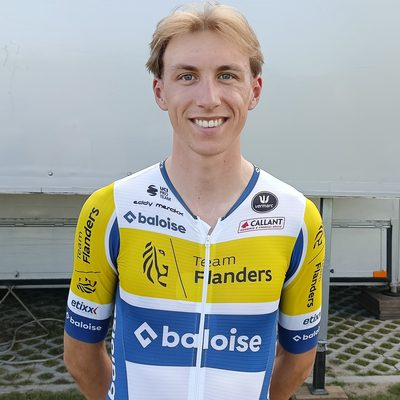
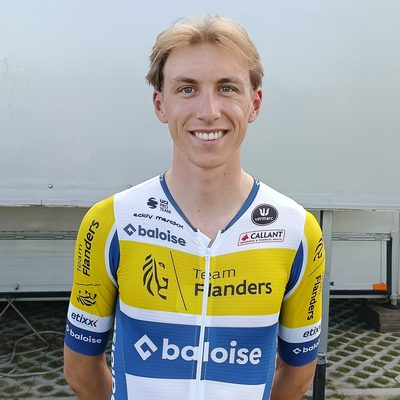
Fix Belgian photo orientation and drop unusable portraits

diff --git a/vuelta.html b/vuelta.html
@@ -1,6 +1,6 @@
 <!DOCTYPE html>
 <html lang="en">
-<head><!-- build:20260821-210950Z -->
+<head><!-- build:20260821-213004Z -->
 <meta charset="UTF-8">
 <meta http-equiv="Cache-Control" content="no-cache, no-store, must-revalidate">
 <meta http-equiv="Pragma" content="no-cache">
@@ -1822,7 +1822,7 @@ const BELGIAN_RIDERS=[
  /* src: https://en.wikipedia.org/wiki/Jordi_Meeus */
  {r:"J. Meeus",t:"Red Bull-BORA-hansgrohe",photo:"belgian-meeus.jpg",bio:"A sprinter whose biggest win came on the Champs-Elysees, taking the final stage of the 2023 Tour de France ahead of Jasper Philipsen. Also won Paris-Bourges in 2021 and the Primus Classic in 2022."},
  {r:"G. Vermeersch",t:"Red Bull-BORA-hansgrohe",photo:"belgian-vermeersch.jpg",bio:"A powerful all-rounder and inaugural gravel world champion, at home on cobbles, crosswinds and rough terrain."},
- {r:"C. Uijtdebroeks",t:"Movistar Team",photo:"belgian-uijtdebroeks.jpg",bio:"Young Belgian GC talent who took the best young rider jersey and a top-ten overall at the Vuelta as a neo-pro, climbing with the leaders in the high mountains."},
+ {r:"C. Uijtdebroeks",t:"Movistar Team",bio:"Young Belgian GC talent who took the best young rider jersey and a top-ten overall at the Vuelta as a neo-pro, climbing with the leaders in the high mountains."},
  {r:"W. van Aert",t:"Visma-Lease a Bike",photo:"belgian-vanaert.jpg",bio:"One of the great all-rounders of his generation: multiple Tour de France stage wins across sprints, mountains and time trials, a former cyclocross world champion, and a Milan-San Remo and Gent-Wevelgem winner. The engine every Belgian fan watches."},
  /* src: https://www.procyclingstats.com/rider/sander-de-pestel */
  {r:"S. de Pestel",t:"Decathlon CMA CGM Team",photo:"belgian-depestel.jpg",bio:"An all-rounder from Sint-Niklaas, with a stage podium at the 2025 Route d'Occitanie and a top ten overall at the 2025 Tour de la Provence."},
@@ -1847,9 +1847,9 @@ const BELGIAN_RIDERS=[
  /* src: https://www.procyclingstats.com/rider/lars-craps */
  {r:"L. Craps",t:"Lotto-Intermarché",photo:"belgian-craps.jpg",bio:"A stage-race rider from Aalst, fifth on a stage of the 2024 Tour of Norway and fourteenth overall at the 2026 Tour Auvergne-Rhone-Alpes."},
  /* src: https://www.procyclingstats.com/rider/steffen-de-schuyteneer */
- {r:"S. de Schuyteneer",t:"Lotto-Intermarché",photo:"belgian-deschuyteneer.jpg",bio:"A sprinter from Geraardsbergen, born 2005, with stage wins at the Tour of Taihu Lake and the Tour of Istanbul, and second at the 2026 Grand Prix la Marseillaise."},
+ {r:"S. de Schuyteneer",t:"Lotto-Intermarché",bio:"A sprinter from Geraardsbergen, born 2005, with stage wins at the Tour of Taihu Lake and the Tour of Istanbul, and second at the 2026 Grand Prix la Marseillaise."},
  /* src: https://www.procyclingstats.com/rider/luca-van-boven */
- {r:"L. van Boven",t:"Lotto-Intermarché",photo:"belgian-vanboven.jpg",bio:"From Zottegem, second on a stage of the 2025 Itzulia Basque Country and fourth overall at the 2024 Four Days of Dunkirk."}
+ {r:"L. van Boven",t:"Lotto-Intermarché",bio:"From Zottegem, second on a stage of the 2025 Itzulia Basque Country and fourth overall at the 2024 Four Days of Dunkirk."}
 ];
 const SHARED_UPCOMING = {
   21: { route:"Thoiry > Paris (Champs-Elysees)", type:"Hilly finale / Montmartre", km:133,
@@ -2149,7 +2149,7 @@ function renderMerica(){
    mp3 is missing the control hides itself rather than erroring. */
 var KAS_SRC='/kasseistampers.mp3', KAS_AUDIO=null, KAS_DEAD=false;
 var KAS_LYRICS="<span class=\"kas-dir\">[Intro - crowd shout]</span>\nOp de kasseien! STAMP! STAMP! STAMP!\nWie pakt de trui? KO-NING... KAS-SEI-STAM-PERS!\n\n<span class=\"kas-dir\">[Verse 1]</span>\nWe can't ride the Ronde,\nWe can't climb a col,\nWe couldn't stamp a single kassei,\nBut we back the fastest Belgian of all!\n\n<span class=\"kas-dir\">[Chorus - big crowd]</span>\nOh, when the stampers come stomping in,\nOh when the Kasseistampers stomp in,\nGodverdomme, crack the pintjes,\nWhen the Kasseistampers stomp in!\n\n<span class=\"kas-dir\">[Verse 2]</span>\nLike the watch of old Aarschot,\nWe're clocking off the graft,\nWe stamp our clogs to sound like we're working,\nThen it's off to de kroeg for a draught!\n\n<span class=\"kas-dir\">[Chorus - big crowd]</span>\nOh, when the stampers come stomping in,\nOh when the Kasseistampers stomp in,\nGodverdomme, crack the pintjes,\nWhen the Kasseistampers stomp in!\n\n<span class=\"kas-dir\">[Bridge - stomp and clap]</span>\nFrietjes! Mayonaise!\nKasseien! Pintjes!\nKoning der Kasseistampers... ALLEZ!\n\n<span class=\"kas-dir\">[Verse 3]</span>\nThe kasseien rattle your kloten,\nThey'll shake your fillings free,\nBut the Koning don't flinch, he waves for another,\nNog een pintje, en eentje for me!\n\n<span class=\"kas-dir\">[Outro - full crowd, arms up]</span>\nAllez, allez, KAS-SEI-STAM-PERS,\nCobbles, beer, and glorie,\nAllez, allez, KAS-SEI-STAM-PERS...\nSANTE!";
-var KAS_CREDITS="<div class=\"kas-cr\"><b>J. Meeus</b> Nicola, CC BY-SA 4.0. <a href=\"https://commons.wikimedia.org/wiki/File:Rund_um_K\u00f6ln_2023_102.jpg\" target=\"_blank\" rel=\"noopener\">Wikimedia Commons</a></div><div class=\"kas-cr\"><b>G. Vermeersch</b> J\u00e9r\u00e9my-G\u00fcnther-Heinz J\u00e4hnick, CC BY-SA 3.0. <a href=\"https://commons.wikimedia.org/wiki/File:Grotenberge_(Zottegem)_-_Omloop_Het_Nieuwsblad_Beloften,_4_juli_2015_(E15).JPG\" target=\"_blank\" rel=\"noopener\">Wikimedia Commons</a></div><div class=\"kas-cr\"><b>C. Uijtdebroeks</b> Foveon producciones, CC BY-SA 4.0. <a href=\"https://commons.wikimedia.org/wiki/File:Vuelta_a_Espa\u00f1a_2023_Contrarreloj_Valladolid-15.jpg\" target=\"_blank\" rel=\"noopener\">Wikimedia Commons</a></div><div class=\"kas-cr\"><b>W. van Aert</b> Cl\u00e9mence LN, CC BY-SA 4.0. <a href=\"https://commons.wikimedia.org/wiki/File:WVA_Paris-Roubaix_2022.jpg\" target=\"_blank\" rel=\"noopener\">Wikimedia Commons</a></div><div class=\"kas-cr\"><b>S. de Pestel</b> Renhour48, CC0. <a href=\"https://commons.wikimedia.org/wiki/File:Les_4_jours_de_Dunkerque_2025_-_Sander_De_Pestel.jpg\" target=\"_blank\" rel=\"noopener\">Wikimedia Commons</a></div><div class=\"kas-cr\"><b>T. Nys</b> Cs-wolves, CC BY-SA 4.0. <a href=\"https://commons.wikimedia.org/wiki/File:Thibau_Nys_-_2023_UCI_Road_World_Championships_(Men's_under-23_road_race).jpg\" target=\"_blank\" rel=\"noopener\">Wikimedia Commons</a></div><div class=\"kas-cr\"><b>L. de Vylder</b> Nicola, CC BY-SA 4.0. <a href=\"https://commons.wikimedia.org/wiki/File:2024_UEC_Track_Elite_European_Championships_178.jpg\" target=\"_blank\" rel=\"noopener\">Wikimedia Commons</a></div><div class=\"kas-cr\"><b>R. Debruyne</b> Robin Krahl, CC BY-SA 4.0. <a href=\"https://commons.wikimedia.org/wiki/File:2022-07-27_0511_Ramses_Debruyne_(Tour_Alsace).jpg\" target=\"_blank\" rel=\"noopener\">Wikimedia Commons</a></div><div class=\"kas-cr\"><b>S. Sentjens</b> Cs-wolves, CC BY-SA 4.0. <a href=\"https://commons.wikimedia.org/wiki/File:Belgium_-_2023_UCI_Road_World_Championships_(Men's_junior_road_race).jpg\" target=\"_blank\" rel=\"noopener\">Wikimedia Commons</a></div><div class=\"kas-cr\"><b>F. van den Bossche</b> Nicola, CC BY-SA 4.0. <a href=\"https://commons.wikimedia.org/wiki/File:2024_UEC_Track_Elite_European_Championships_177.jpg\" target=\"_blank\" rel=\"noopener\">Wikimedia Commons</a></div><div class=\"kas-cr\"><b>M. Vansevenant</b> filip bossuyt from Kortrijk, Belgium, CC BY 2.0. <a href=\"https://commons.wikimedia.org/wiki/File:GI220026_vansevenant_(52123252048).jpg\" target=\"_blank\" rel=\"noopener\">Wikimedia Commons</a></div><div class=\"kas-cr\"><b>S. Moniquet</b> Beno\u00eet Prieur, CC0. <a href=\"https://commons.wikimedia.org/wiki/File:Sylvain_Moniquet_(Lotto_Soudal)_au_matin_de_la_premi\u00e8re_\u00e9tape_du_Tour_de_l'Ain_2021.jpg\" target=\"_blank\" rel=\"noopener\">Wikimedia Commons</a></div><div class=\"kas-cr\"><b>J. Widar</b> MFonzatti, CC BY-SA 4.0. <a href=\"https://commons.wikimedia.org/wiki/File:TDA2024_Jarno_Widar.jpg\" target=\"_blank\" rel=\"noopener\">Wikimedia Commons</a></div><div class=\"kas-cr\"><b>V. Braet</b> J\u00e9r\u00e9my-G\u00fcnther-Heinz J\u00e4hnick, CC BY-SA 3.0. <a href=\"https://commons.wikimedia.org/wiki/File:Saint-Amand-les-Eaux_-_Paris-Roubaix_juniors,_9_avril_2017,_d\u00e9part_(A85).JPG\" target=\"_blank\" rel=\"noopener\">Wikimedia Commons</a></div><div class=\"kas-cr\"><b>L. Craps</b> KvaraWolves88, CC0. <a href=\"https://commons.wikimedia.org/wiki/File:Lars_Craps_at_Renewi_Tour_2024.jpg\" target=\"_blank\" rel=\"noopener\">Wikimedia Commons</a></div><div class=\"kas-cr\"><b>S. de Schuyteneer</b> Cs-wolves, CC BY-SA 4.0. <a href=\"https://commons.wikimedia.org/wiki/File:Steffen_De_Schuyteneer_-_2023_UCI_Road_World_Championships_(Men's_junior_road_race,_lap_4).jpg\" target=\"_blank\" rel=\"noopener\">Wikimedia Commons</a></div><div class=\"kas-cr\"><b>L. van Boven</b> Hoebele, CC BY-SA 4.0. <a href=\"https://commons.wikimedia.org/wiki/File:2024_Tour_de_Wallonie_-_4e_etappe_127_Luca_van_Boven.jpg\" target=\"_blank\" rel=\"noopener\">Wikimedia Commons</a></div>";
+var KAS_CREDITS="<div class=\"kas-cr\"><b>J. Meeus</b> Nicola, CC BY-SA 4.0. <a href=\"https://commons.wikimedia.org/wiki/File:Rund_um_K\u00f6ln_2023_102.jpg\" target=\"_blank\" rel=\"noopener\">Wikimedia Commons</a></div><div class=\"kas-cr\"><b>G. Vermeersch</b> J\u00e9r\u00e9my-G\u00fcnther-Heinz J\u00e4hnick, CC BY-SA 3.0. <a href=\"https://commons.wikimedia.org/wiki/File:Grotenberge_(Zottegem)_-_Omloop_Het_Nieuwsblad_Beloften,_4_juli_2015_(E15).JPG\" target=\"_blank\" rel=\"noopener\">Wikimedia Commons</a></div><div class=\"kas-cr\"><b>W. van Aert</b> Cl\u00e9mence LN, CC BY-SA 4.0. <a href=\"https://commons.wikimedia.org/wiki/File:WVA_Paris-Roubaix_2022.jpg\" target=\"_blank\" rel=\"noopener\">Wikimedia Commons</a></div><div class=\"kas-cr\"><b>S. de Pestel</b> Renhour48, CC0. <a href=\"https://commons.wikimedia.org/wiki/File:Les_4_jours_de_Dunkerque_2025_-_Sander_De_Pestel.jpg\" target=\"_blank\" rel=\"noopener\">Wikimedia Commons</a></div><div class=\"kas-cr\"><b>T. Nys</b> Cs-wolves, CC BY-SA 4.0. <a href=\"https://commons.wikimedia.org/wiki/File:Thibau_Nys_-_2023_UCI_Road_World_Championships_(Men's_under-23_road_race).jpg\" target=\"_blank\" rel=\"noopener\">Wikimedia Commons</a></div><div class=\"kas-cr\"><b>L. de Vylder</b> Nicola, CC BY-SA 4.0. <a href=\"https://commons.wikimedia.org/wiki/File:2024_UEC_Track_Elite_European_Championships_178.jpg\" target=\"_blank\" rel=\"noopener\">Wikimedia Commons</a></div><div class=\"kas-cr\"><b>R. Debruyne</b> Robin Krahl, CC BY-SA 4.0. <a href=\"https://commons.wikimedia.org/wiki/File:2022-07-27_0511_Ramses_Debruyne_(Tour_Alsace).jpg\" target=\"_blank\" rel=\"noopener\">Wikimedia Commons</a></div><div class=\"kas-cr\"><b>S. Sentjens</b> Cs-wolves, CC BY-SA 4.0. <a href=\"https://commons.wikimedia.org/wiki/File:Sente_Sentjens_aux_championnats_du_monde_2023_(cropped).jpg\" target=\"_blank\" rel=\"noopener\">Wikimedia Commons</a></div><div class=\"kas-cr\"><b>F. van den Bossche</b> Nicola, CC BY-SA 4.0. <a href=\"https://commons.wikimedia.org/wiki/File:2024_UEC_Track_Elite_European_Championships_177.jpg\" target=\"_blank\" rel=\"noopener\">Wikimedia Commons</a></div><div class=\"kas-cr\"><b>M. Vansevenant</b> filip bossuyt from Kortrijk, Belgium, CC BY 2.0. <a href=\"https://commons.wikimedia.org/wiki/File:GI220026_vansevenant_(52123252048).jpg\" target=\"_blank\" rel=\"noopener\">Wikimedia Commons</a></div><div class=\"kas-cr\"><b>S. Moniquet</b> Beno\u00eet Prieur, CC0. <a href=\"https://commons.wikimedia.org/wiki/File:Sylvain_Moniquet_(Lotto_Soudal)_au_matin_de_la_premi\u00e8re_\u00e9tape_du_Tour_de_l'Ain_2021.jpg\" target=\"_blank\" rel=\"noopener\">Wikimedia Commons</a></div><div class=\"kas-cr\"><b>J. Widar</b> MFonzatti, CC BY-SA 4.0. <a href=\"https://commons.wikimedia.org/wiki/File:TDA2024_Jarno_Widar.jpg\" target=\"_blank\" rel=\"noopener\">Wikimedia Commons</a></div><div class=\"kas-cr\"><b>V. Braet</b> J\u00e9r\u00e9my-G\u00fcnther-Heinz J\u00e4hnick, CC BY-SA 3.0. <a href=\"https://commons.wikimedia.org/wiki/File:Saint-Amand-les-Eaux_-_Paris-Roubaix_juniors,_9_avril_2017,_d\u00e9part_(A85).JPG\" target=\"_blank\" rel=\"noopener\">Wikimedia Commons</a></div><div class=\"kas-cr\"><b>L. Craps</b> KvaraWolves88, CC0. <a href=\"https://commons.wikimedia.org/wiki/File:Lars_Craps_at_Renewi_Tour_2024.jpg\" target=\"_blank\" rel=\"noopener\">Wikimedia Commons</a></div>";
 function kasHide(){ KAS_DEAD=true; document.querySelectorAll('.kas-play').forEach(function(b){ b.style.display='none'; }); }
 function kasSync(){
   var on = !!(KAS_AUDIO && !KAS_AUDIO.paused);
@@ -4647,4 +4647,4 @@ document.querySelectorAll('nav.tabs button').forEach(b=>{
 </script>
 </body>
 </html>
-<!-- redeploy: kasseistampers summary color, 2026-08-21T21:09Z -->
+<!-- redeploy: belgian photo orientation, 2026-08-21T21:30Z -->

diff --git a/vuelta.src.html b/vuelta.src.html
@@ -1822,7 +1822,7 @@ const BELGIAN_RIDERS=[
  /* src: https://en.wikipedia.org/wiki/Jordi_Meeus */
  {r:"J. Meeus",t:"Red Bull-BORA-hansgrohe",photo:"belgian-meeus.jpg",bio:"A sprinter whose biggest win came on the Champs-Elysees, taking the final stage of the 2023 Tour de France ahead of Jasper Philipsen. Also won Paris-Bourges in 2021 and the Primus Classic in 2022."},
  {r:"G. Vermeersch",t:"Red Bull-BORA-hansgrohe",photo:"belgian-vermeersch.jpg",bio:"A powerful all-rounder and inaugural gravel world champion, at home on cobbles, crosswinds and rough terrain."},
- {r:"C. Uijtdebroeks",t:"Movistar Team",photo:"belgian-uijtdebroeks.jpg",bio:"Young Belgian GC talent who took the best young rider jersey and a top-ten overall at the Vuelta as a neo-pro, climbing with the leaders in the high mountains."},
+ {r:"C. Uijtdebroeks",t:"Movistar Team",bio:"Young Belgian GC talent who took the best young rider jersey and a top-ten overall at the Vuelta as a neo-pro, climbing with the leaders in the high mountains."},
  {r:"W. van Aert",t:"Visma-Lease a Bike",photo:"belgian-vanaert.jpg",bio:"One of the great all-rounders of his generation: multiple Tour de France stage wins across sprints, mountains and time trials, a former cyclocross world champion, and a Milan-San Remo and Gent-Wevelgem winner. The engine every Belgian fan watches."},
  /* src: https://www.procyclingstats.com/rider/sander-de-pestel */
  {r:"S. de Pestel",t:"Decathlon CMA CGM Team",photo:"belgian-depestel.jpg",bio:"An all-rounder from Sint-Niklaas, with a stage podium at the 2025 Route d'Occitanie and a top ten overall at the 2025 Tour de la Provence."},
@@ -1847,9 +1847,9 @@ const BELGIAN_RIDERS=[
  /* src: https://www.procyclingstats.com/rider/lars-craps */
  {r:"L. Craps",t:"Lotto-Intermarché",photo:"belgian-craps.jpg",bio:"A stage-race rider from Aalst, fifth on a stage of the 2024 Tour of Norway and fourteenth overall at the 2026 Tour Auvergne-Rhone-Alpes."},
  /* src: https://www.procyclingstats.com/rider/steffen-de-schuyteneer */
- {r:"S. de Schuyteneer",t:"Lotto-Intermarché",photo:"belgian-deschuyteneer.jpg",bio:"A sprinter from Geraardsbergen, born 2005, with stage wins at the Tour of Taihu Lake and the Tour of Istanbul, and second at the 2026 Grand Prix la Marseillaise."},
+ {r:"S. de Schuyteneer",t:"Lotto-Intermarché",bio:"A sprinter from Geraardsbergen, born 2005, with stage wins at the Tour of Taihu Lake and the Tour of Istanbul, and second at the 2026 Grand Prix la Marseillaise."},
  /* src: https://www.procyclingstats.com/rider/luca-van-boven */
- {r:"L. van Boven",t:"Lotto-Intermarché",photo:"belgian-vanboven.jpg",bio:"From Zottegem, second on a stage of the 2025 Itzulia Basque Country and fourth overall at the 2024 Four Days of Dunkirk."}
+ {r:"L. van Boven",t:"Lotto-Intermarché",bio:"From Zottegem, second on a stage of the 2025 Itzulia Basque Country and fourth overall at the 2024 Four Days of Dunkirk."}
 ];
 const SHARED_UPCOMING = {
   21: { route:"Thoiry > Paris (Champs-Elysees)", type:"Hilly finale / Montmartre", km:133,
@@ -2149,7 +2149,7 @@ function renderMerica(){
    mp3 is missing the control hides itself rather than erroring. */
 var KAS_SRC='/kasseistampers.mp3', KAS_AUDIO=null, KAS_DEAD=false;
 var KAS_LYRICS="<span class=\"kas-dir\">[Intro - crowd shout]</span>\nOp de kasseien! STAMP! STAMP! STAMP!\nWie pakt de trui? KO-NING... KAS-SEI-STAM-PERS!\n\n<span class=\"kas-dir\">[Verse 1]</span>\nWe can't ride the Ronde,\nWe can't climb a col,\nWe couldn't stamp a single kassei,\nBut we back the fastest Belgian of all!\n\n<span class=\"kas-dir\">[Chorus - big crowd]</span>\nOh, when the stampers come stomping in,\nOh when the Kasseistampers stomp in,\nGodverdomme, crack the pintjes,\nWhen the Kasseistampers stomp in!\n\n<span class=\"kas-dir\">[Verse 2]</span>\nLike the watch of old Aarschot,\nWe're clocking off the graft,\nWe stamp our clogs to sound like we're working,\nThen it's off to de kroeg for a draught!\n\n<span class=\"kas-dir\">[Chorus - big crowd]</span>\nOh, when the stampers come stomping in,\nOh when the Kasseistampers stomp in,\nGodverdomme, crack the pintjes,\nWhen the Kasseistampers stomp in!\n\n<span class=\"kas-dir\">[Bridge - stomp and clap]</span>\nFrietjes! Mayonaise!\nKasseien! Pintjes!\nKoning der Kasseistampers... ALLEZ!\n\n<span class=\"kas-dir\">[Verse 3]</span>\nThe kasseien rattle your kloten,\nThey'll shake your fillings free,\nBut the Koning don't flinch, he waves for another,\nNog een pintje, en eentje for me!\n\n<span class=\"kas-dir\">[Outro - full crowd, arms up]</span>\nAllez, allez, KAS-SEI-STAM-PERS,\nCobbles, beer, and glorie,\nAllez, allez, KAS-SEI-STAM-PERS...\nSANTE!";
-var KAS_CREDITS="<div class=\"kas-cr\"><b>J. Meeus</b> Nicola, CC BY-SA 4.0. <a href=\"https://commons.wikimedia.org/wiki/File:Rund_um_K\u00f6ln_2023_102.jpg\" target=\"_blank\" rel=\"noopener\">Wikimedia Commons</a></div><div class=\"kas-cr\"><b>G. Vermeersch</b> J\u00e9r\u00e9my-G\u00fcnther-Heinz J\u00e4hnick, CC BY-SA 3.0. <a href=\"https://commons.wikimedia.org/wiki/File:Grotenberge_(Zottegem)_-_Omloop_Het_Nieuwsblad_Beloften,_4_juli_2015_(E15).JPG\" target=\"_blank\" rel=\"noopener\">Wikimedia Commons</a></div><div class=\"kas-cr\"><b>C. Uijtdebroeks</b> Foveon producciones, CC BY-SA 4.0. <a href=\"https://commons.wikimedia.org/wiki/File:Vuelta_a_Espa\u00f1a_2023_Contrarreloj_Valladolid-15.jpg\" target=\"_blank\" rel=\"noopener\">Wikimedia Commons</a></div><div class=\"kas-cr\"><b>W. van Aert</b> Cl\u00e9mence LN, CC BY-SA 4.0. <a href=\"https://commons.wikimedia.org/wiki/File:WVA_Paris-Roubaix_2022.jpg\" target=\"_blank\" rel=\"noopener\">Wikimedia Commons</a></div><div class=\"kas-cr\"><b>S. de Pestel</b> Renhour48, CC0. <a href=\"https://commons.wikimedia.org/wiki/File:Les_4_jours_de_Dunkerque_2025_-_Sander_De_Pestel.jpg\" target=\"_blank\" rel=\"noopener\">Wikimedia Commons</a></div><div class=\"kas-cr\"><b>T. Nys</b> Cs-wolves, CC BY-SA 4.0. <a href=\"https://commons.wikimedia.org/wiki/File:Thibau_Nys_-_2023_UCI_Road_World_Championships_(Men's_under-23_road_race).jpg\" target=\"_blank\" rel=\"noopener\">Wikimedia Commons</a></div><div class=\"kas-cr\"><b>L. de Vylder</b> Nicola, CC BY-SA 4.0. <a href=\"https://commons.wikimedia.org/wiki/File:2024_UEC_Track_Elite_European_Championships_178.jpg\" target=\"_blank\" rel=\"noopener\">Wikimedia Commons</a></div><div class=\"kas-cr\"><b>R. Debruyne</b> Robin Krahl, CC BY-SA 4.0. <a href=\"https://commons.wikimedia.org/wiki/File:2022-07-27_0511_Ramses_Debruyne_(Tour_Alsace).jpg\" target=\"_blank\" rel=\"noopener\">Wikimedia Commons</a></div><div class=\"kas-cr\"><b>S. Sentjens</b> Cs-wolves, CC BY-SA 4.0. <a href=\"https://commons.wikimedia.org/wiki/File:Belgium_-_2023_UCI_Road_World_Championships_(Men's_junior_road_race).jpg\" target=\"_blank\" rel=\"noopener\">Wikimedia Commons</a></div><div class=\"kas-cr\"><b>F. van den Bossche</b> Nicola, CC BY-SA 4.0. <a href=\"https://commons.wikimedia.org/wiki/File:2024_UEC_Track_Elite_European_Championships_177.jpg\" target=\"_blank\" rel=\"noopener\">Wikimedia Commons</a></div><div class=\"kas-cr\"><b>M. Vansevenant</b> filip bossuyt from Kortrijk, Belgium, CC BY 2.0. <a href=\"https://commons.wikimedia.org/wiki/File:GI220026_vansevenant_(52123252048).jpg\" target=\"_blank\" rel=\"noopener\">Wikimedia Commons</a></div><div class=\"kas-cr\"><b>S. Moniquet</b> Beno\u00eet Prieur, CC0. <a href=\"https://commons.wikimedia.org/wiki/File:Sylvain_Moniquet_(Lotto_Soudal)_au_matin_de_la_premi\u00e8re_\u00e9tape_du_Tour_de_l'Ain_2021.jpg\" target=\"_blank\" rel=\"noopener\">Wikimedia Commons</a></div><div class=\"kas-cr\"><b>J. Widar</b> MFonzatti, CC BY-SA 4.0. <a href=\"https://commons.wikimedia.org/wiki/File:TDA2024_Jarno_Widar.jpg\" target=\"_blank\" rel=\"noopener\">Wikimedia Commons</a></div><div class=\"kas-cr\"><b>V. Braet</b> J\u00e9r\u00e9my-G\u00fcnther-Heinz J\u00e4hnick, CC BY-SA 3.0. <a href=\"https://commons.wikimedia.org/wiki/File:Saint-Amand-les-Eaux_-_Paris-Roubaix_juniors,_9_avril_2017,_d\u00e9part_(A85).JPG\" target=\"_blank\" rel=\"noopener\">Wikimedia Commons</a></div><div class=\"kas-cr\"><b>L. Craps</b> KvaraWolves88, CC0. <a href=\"https://commons.wikimedia.org/wiki/File:Lars_Craps_at_Renewi_Tour_2024.jpg\" target=\"_blank\" rel=\"noopener\">Wikimedia Commons</a></div><div class=\"kas-cr\"><b>S. de Schuyteneer</b> Cs-wolves, CC BY-SA 4.0. <a href=\"https://commons.wikimedia.org/wiki/File:Steffen_De_Schuyteneer_-_2023_UCI_Road_World_Championships_(Men's_junior_road_race,_lap_4).jpg\" target=\"_blank\" rel=\"noopener\">Wikimedia Commons</a></div><div class=\"kas-cr\"><b>L. van Boven</b> Hoebele, CC BY-SA 4.0. <a href=\"https://commons.wikimedia.org/wiki/File:2024_Tour_de_Wallonie_-_4e_etappe_127_Luca_van_Boven.jpg\" target=\"_blank\" rel=\"noopener\">Wikimedia Commons</a></div>";
+var KAS_CREDITS="<div class=\"kas-cr\"><b>J. Meeus</b> Nicola, CC BY-SA 4.0. <a href=\"https://commons.wikimedia.org/wiki/File:Rund_um_K\u00f6ln_2023_102.jpg\" target=\"_blank\" rel=\"noopener\">Wikimedia Commons</a></div><div class=\"kas-cr\"><b>G. Vermeersch</b> J\u00e9r\u00e9my-G\u00fcnther-Heinz J\u00e4hnick, CC BY-SA 3.0. <a href=\"https://commons.wikimedia.org/wiki/File:Grotenberge_(Zottegem)_-_Omloop_Het_Nieuwsblad_Beloften,_4_juli_2015_(E15).JPG\" target=\"_blank\" rel=\"noopener\">Wikimedia Commons</a></div><div class=\"kas-cr\"><b>W. van Aert</b> Cl\u00e9mence LN, CC BY-SA 4.0. <a href=\"https://commons.wikimedia.org/wiki/File:WVA_Paris-Roubaix_2022.jpg\" target=\"_blank\" rel=\"noopener\">Wikimedia Commons</a></div><div class=\"kas-cr\"><b>S. de Pestel</b> Renhour48, CC0. <a href=\"https://commons.wikimedia.org/wiki/File:Les_4_jours_de_Dunkerque_2025_-_Sander_De_Pestel.jpg\" target=\"_blank\" rel=\"noopener\">Wikimedia Commons</a></div><div class=\"kas-cr\"><b>T. Nys</b> Cs-wolves, CC BY-SA 4.0. <a href=\"https://commons.wikimedia.org/wiki/File:Thibau_Nys_-_2023_UCI_Road_World_Championships_(Men's_under-23_road_race).jpg\" target=\"_blank\" rel=\"noopener\">Wikimedia Commons</a></div><div class=\"kas-cr\"><b>L. de Vylder</b> Nicola, CC BY-SA 4.0. <a href=\"https://commons.wikimedia.org/wiki/File:2024_UEC_Track_Elite_European_Championships_178.jpg\" target=\"_blank\" rel=\"noopener\">Wikimedia Commons</a></div><div class=\"kas-cr\"><b>R. Debruyne</b> Robin Krahl, CC BY-SA 4.0. <a href=\"https://commons.wikimedia.org/wiki/File:2022-07-27_0511_Ramses_Debruyne_(Tour_Alsace).jpg\" target=\"_blank\" rel=\"noopener\">Wikimedia Commons</a></div><div class=\"kas-cr\"><b>S. Sentjens</b> Cs-wolves, CC BY-SA 4.0. <a href=\"https://commons.wikimedia.org/wiki/File:Sente_Sentjens_aux_championnats_du_monde_2023_(cropped).jpg\" target=\"_blank\" rel=\"noopener\">Wikimedia Commons</a></div><div class=\"kas-cr\"><b>F. van den Bossche</b> Nicola, CC BY-SA 4.0. <a href=\"https://commons.wikimedia.org/wiki/File:2024_UEC_Track_Elite_European_Championships_177.jpg\" target=\"_blank\" rel=\"noopener\">Wikimedia Commons</a></div><div class=\"kas-cr\"><b>M. Vansevenant</b> filip bossuyt from Kortrijk, Belgium, CC BY 2.0. <a href=\"https://commons.wikimedia.org/wiki/File:GI220026_vansevenant_(52123252048).jpg\" target=\"_blank\" rel=\"noopener\">Wikimedia Commons</a></div><div class=\"kas-cr\"><b>S. Moniquet</b> Beno\u00eet Prieur, CC0. <a href=\"https://commons.wikimedia.org/wiki/File:Sylvain_Moniquet_(Lotto_Soudal)_au_matin_de_la_premi\u00e8re_\u00e9tape_du_Tour_de_l'Ain_2021.jpg\" target=\"_blank\" rel=\"noopener\">Wikimedia Commons</a></div><div class=\"kas-cr\"><b>J. Widar</b> MFonzatti, CC BY-SA 4.0. <a href=\"https://commons.wikimedia.org/wiki/File:TDA2024_Jarno_Widar.jpg\" target=\"_blank\" rel=\"noopener\">Wikimedia Commons</a></div><div class=\"kas-cr\"><b>V. Braet</b> J\u00e9r\u00e9my-G\u00fcnther-Heinz J\u00e4hnick, CC BY-SA 3.0. <a href=\"https://commons.wikimedia.org/wiki/File:Saint-Amand-les-Eaux_-_Paris-Roubaix_juniors,_9_avril_2017,_d\u00e9part_(A85).JPG\" target=\"_blank\" rel=\"noopener\">Wikimedia Commons</a></div><div class=\"kas-cr\"><b>L. Craps</b> KvaraWolves88, CC0. <a href=\"https://commons.wikimedia.org/wiki/File:Lars_Craps_at_Renewi_Tour_2024.jpg\" target=\"_blank\" rel=\"noopener\">Wikimedia Commons</a></div>";
 function kasHide(){ KAS_DEAD=true; document.querySelectorAll('.kas-play').forEach(function(b){ b.style.display='none'; }); }
 function kasSync(){
   var on = !!(KAS_AUDIO && !KAS_AUDIO.paused);
